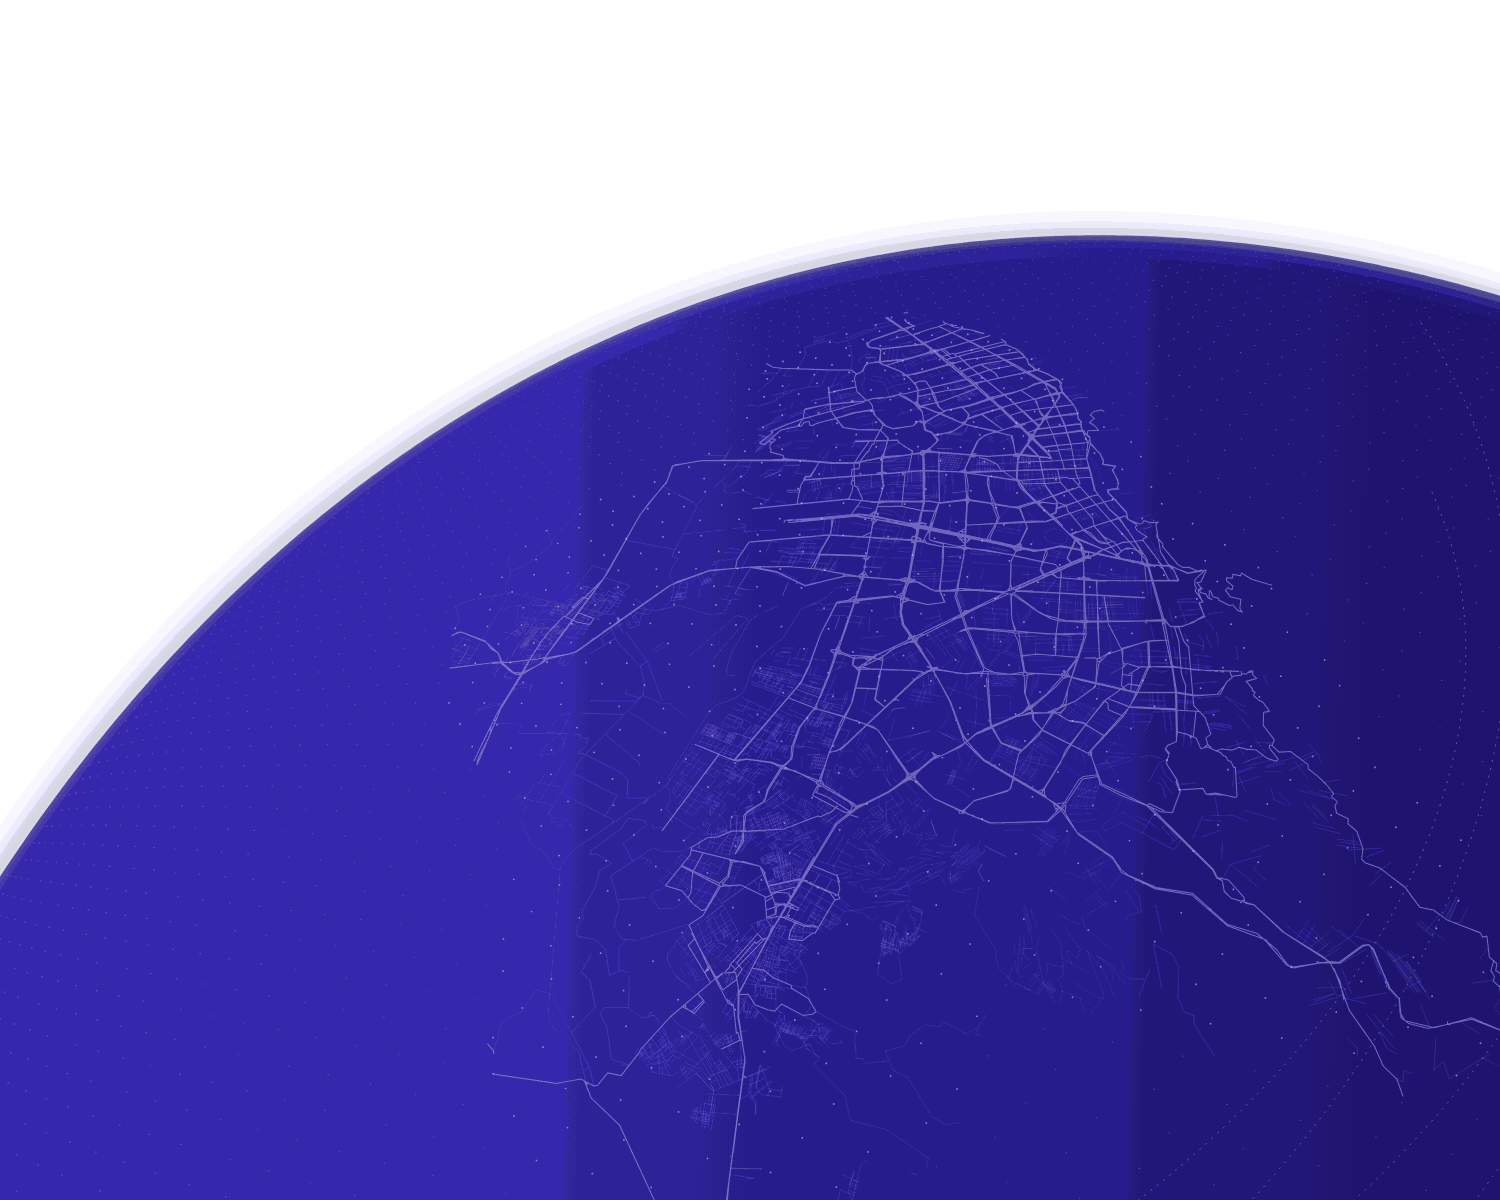
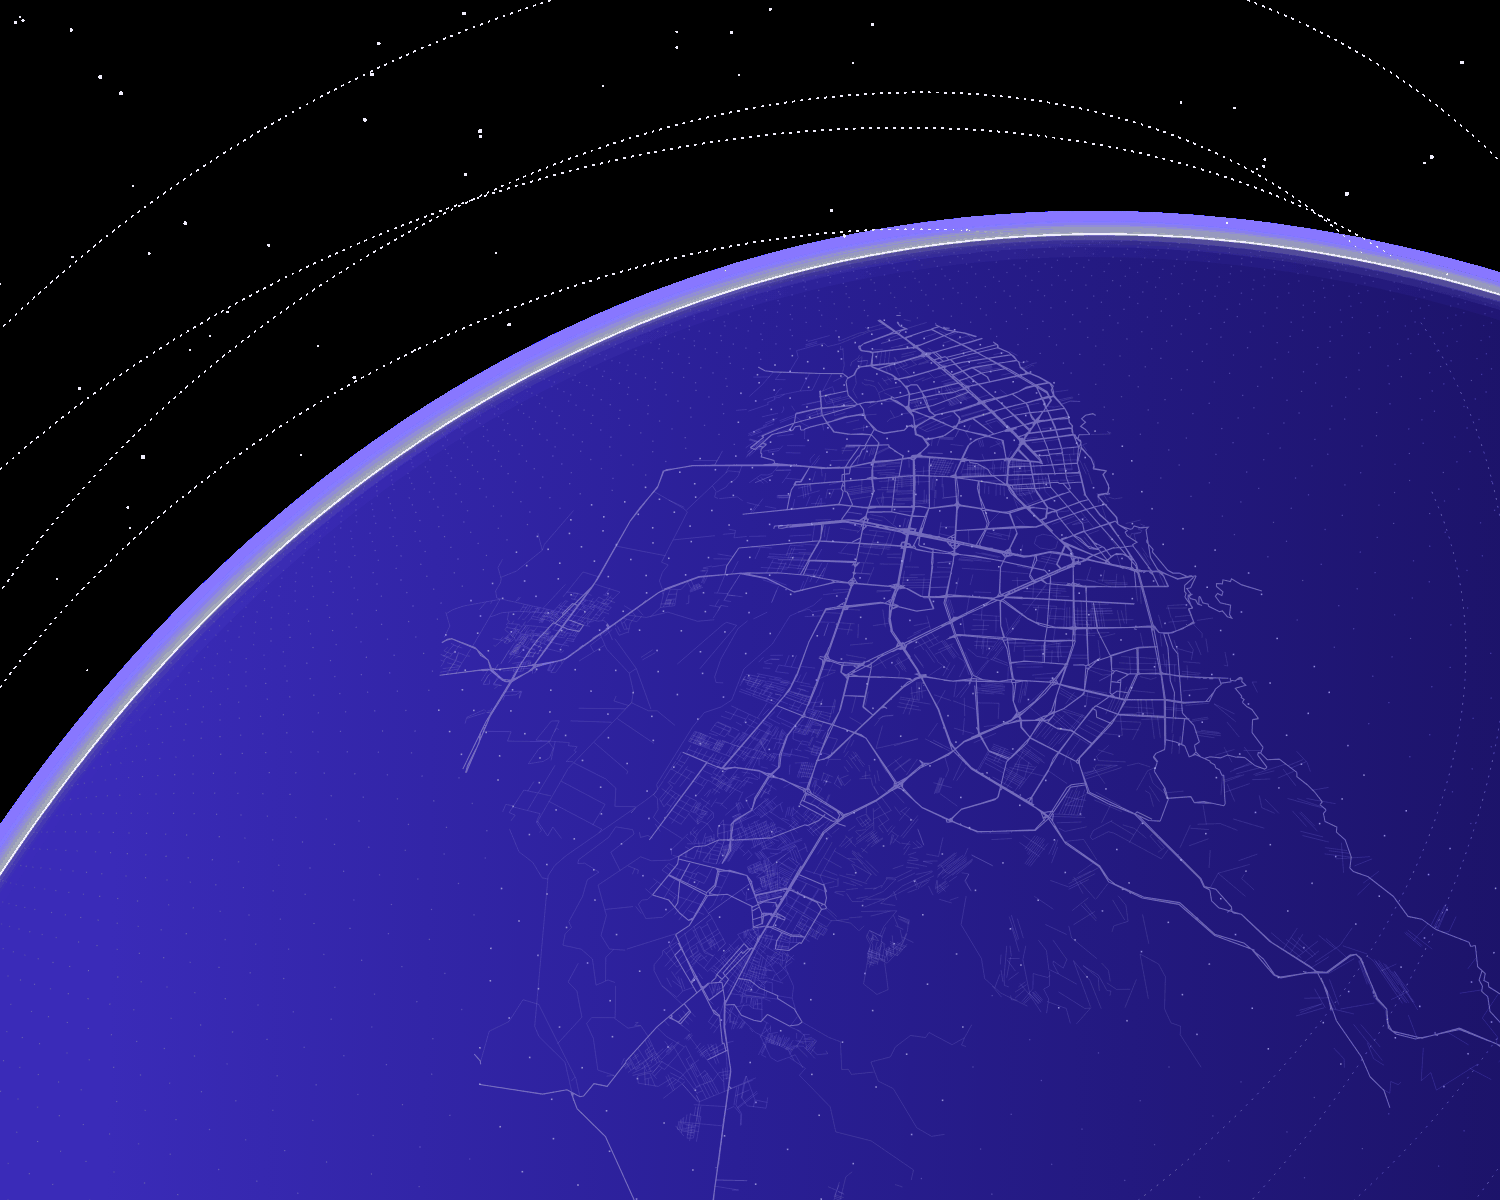
Planeta: ciudad más arriba en la vista frontal y más a la izquierda en la oblicua (sin mover el planeta)
Claude-Session: https://claude.ai/code/session_01DxqiBbSv11VANarNNGiE5G

diff --git a/herramientas/planeta/planeta-render.js b/herramientas/planeta/planeta-render.js
@@ -227,15 +227,16 @@
   const suma = (...vs) => vs.reduce((s, [k, v]) => [s[0] + k * v[0], s[1] + k * v[1], s[2] + k * v[2]], [0, 0, 0]);
   const esfera = (la, lo) => { const a = la * rad, b = lo * rad; return [Math.cos(a) * Math.cos(b), Math.cos(a) * Math.sin(b), Math.sin(a)]; };
   // giroMapa: gira la ciudad sobre el planeta (grados), sin mover la cámara
-  const mundo = ([la, lo]) => {
+  const mundo = ([la, lo], sinDesp) => {
     let dy = la - C[0], dx = lo - C[1];
     if (K.giroMapa) { const g = K.giroMapa * rad, c = Math.cos(g), s = Math.sin(g); [dx, dy] = [dx * c - dy * s, dx * s + dy * c]; }
-    return esfera(C[0] + dy * K.escala, dx * K.escala);
+    // despLat / despLon: corren solo la ciudad sobre la superficie (grados del planeta), sin mover cámara ni planeta
+    return esfera(C[0] + dy * K.escala + (sinDesp ? 0 : K.despLat || 0), dx * K.escala + (sinDesp ? 0 : K.despLon || 0));
   };
 
   let PC, PCd, DV, RV, UV;   // posición de la cámara, su distancia, y sus ejes (adelante, derecha, arriba)
   function camara() {
-    const T = mundo(K.mira);                         // punto de la superficie bajo la mira
+    const T = mundo(K.mira, true);   // la cámara no sigue el desplazamiento de la ciudad                         // punto de la superficie bajo la mira
     const lat = Math.asin(T[2]), lon = Math.atan2(T[1], T[0]);
     const E = [-Math.sin(lon), Math.cos(lon), 0];
     const N = [-Math.sin(lat) * Math.cos(lon), -Math.sin(lat) * Math.sin(lon), Math.cos(lat)];

diff --git a/index.html b/index.html
@@ -14,8 +14,8 @@
     <link rel="icon" href="IMG/icon-192.png">
     <link rel="stylesheet" href="Styles/upgrade.css?v=21">
     <!-- El planeta es una imagen ya dibujada: se precarga la de cada dispositivo -->
-    <link rel="preload" href="IMG/planeta-oblicuo.png?v=6" as="image" type="image/png" media="(min-width: 901px) and (orientation: landscape)">
-    <link rel="preload" href="IMG/planeta-frontal.png?v=6" as="image" type="image/png" media="(max-width: 900px), (orientation: portrait)">
+    <link rel="preload" href="IMG/planeta-oblicuo.png?v=7" as="image" type="image/png" media="(min-width: 901px) and (orientation: landscape)">
+    <link rel="preload" href="IMG/planeta-frontal.png?v=7" as="image" type="image/png" media="(max-width: 900px), (orientation: portrait)">
     <script>document.documentElement.classList.add('js');</script>
 </head>
 <body>
@@ -346,7 +346,7 @@
 </div>
 </main>
 
-<script src="Scripts/planeta.js?v=28" defer></script>
+<script src="Scripts/planeta.js?v=29" defer></script>
 <script src="https://cdnjs.cloudflare.com/ajax/libs/leaflet/1.9.4/leaflet.min.js" defer></script>
 <script src="Scripts/scriptindex.js?v=2" defer></script>
 

diff --git a/Scripts/planeta.js b/Scripts/planeta.js
@@ -129,7 +129,7 @@
     const v = canvas.dataset.vista || (alLado() ? 'oblicuo' : 'frontal');   // data-vista fuerza una vista
     if (v === variante) return;
     variante = v;
-    canvas.style.backgroundImage = `url(${base}IMG/planeta-${v}.png?v=6)`;
+    canvas.style.backgroundImage = `url(${base}IMG/planeta-${v}.png?v=7)`;
     entregas = []; pings.length = 0;
     const usar = (d) => {
       if (variante !== v) return;
@@ -139,7 +139,7 @@
     };
     if (cache[v]) { usar(cache[v]); return; }
     rutas = [];
-    fetch(`${base}Scripts/planeta-${v}.json?v=7`)
+    fetch(`${base}Scripts/planeta-${v}.json?v=8`)
       .then((r) => (r.ok ? r.json() : Promise.reject()))
       .then((d) => {
         d.rutasListas = d.rutas.map((r) => ({ a: r.a, d: r.d, p: deshacer(r.p) }));
